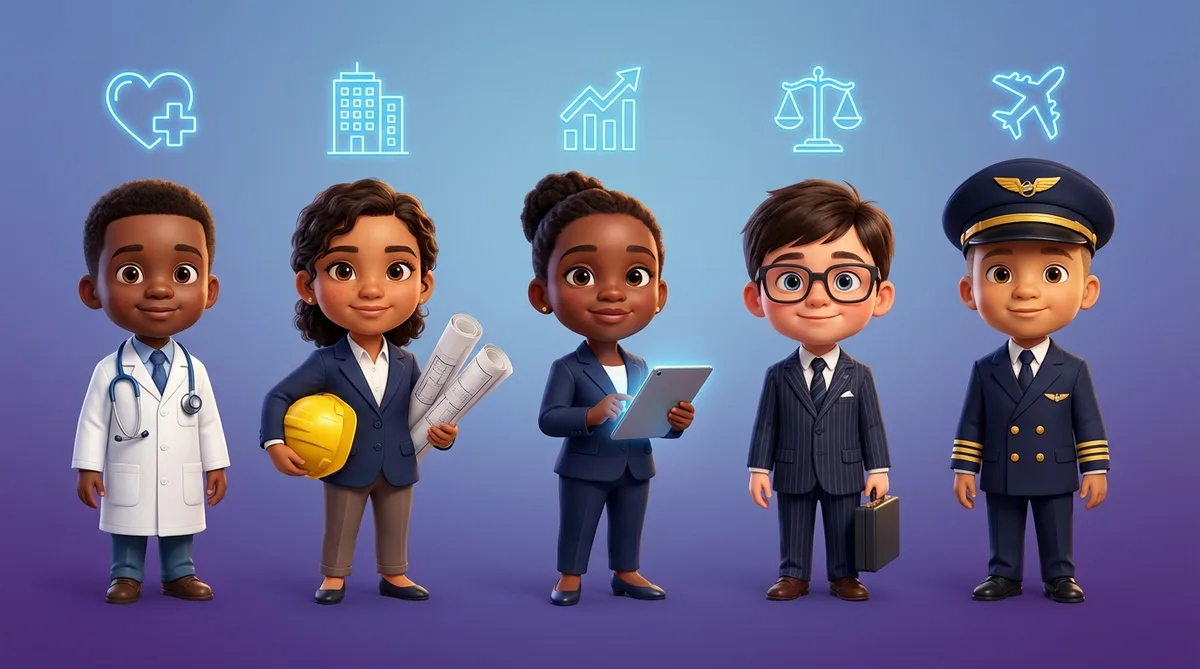
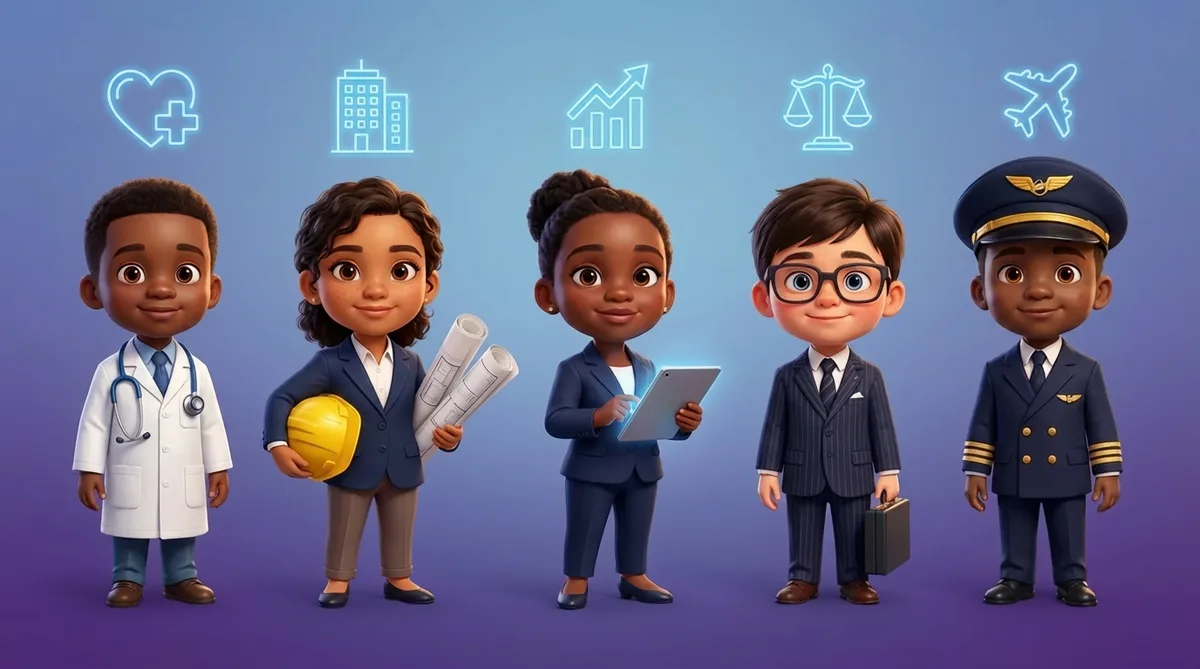
fix: pilot brown skin + hero text no longer overlaps image
- Pilot: now brown-skinned with full captain uniform
- Hero: accent text reduced from 4.5rem to 3.5rem to prevent overlap
- Grid: text column wider (1.1fr vs 0.9fr) for breathing room

diff --git a/src/app/[locale]/page.tsx b/src/app/[locale]/page.tsx
@@ -72,7 +72,7 @@ export default async function Home() {
         <div className="absolute inset-0 bg-[radial-gradient(ellipse_80%_50%_at_50%_-20%,rgba(30,64,175,0.04),transparent)]" />
 
         <div className="relative mx-auto max-w-6xl px-4 pb-8 pt-10 sm:px-6 sm:pb-16 sm:pt-14 lg:pb-20 lg:pt-16">
-          <div className="grid items-center gap-8 lg:grid-cols-2 lg:gap-12">
+          <div className="grid items-center gap-8 lg:grid-cols-[1.1fr_0.9fr] lg:gap-10">
             <div className="text-center lg:text-left">
               <div className="mb-5 inline-flex animate-fade-in items-center gap-2 rounded-full border border-[var(--ev-amber)]/20 bg-[var(--ev-amber-50)] px-4 py-1.5 text-sm font-semibold text-[var(--ev-amber-dark)]">
                 <Sparkles className="size-4" />
@@ -84,7 +84,7 @@ export default async function Home() {
                 <span className="block text-3xl font-extrabold text-slate-800 sm:text-4xl lg:text-[2.75rem] lg:leading-[1.15]">
                   {t("hero.titleLine1")}
                 </span>
-                <span className="block text-5xl font-extrabold text-[var(--ev-blue)] sm:text-6xl lg:text-[4.5rem] lg:leading-[1]">
+                <span className="block text-4xl font-extrabold text-[var(--ev-blue)] sm:text-5xl lg:text-[3.5rem] lg:leading-[1.05]">
                   {t("hero.titleAccent")}
                 </span>
               </h1>
